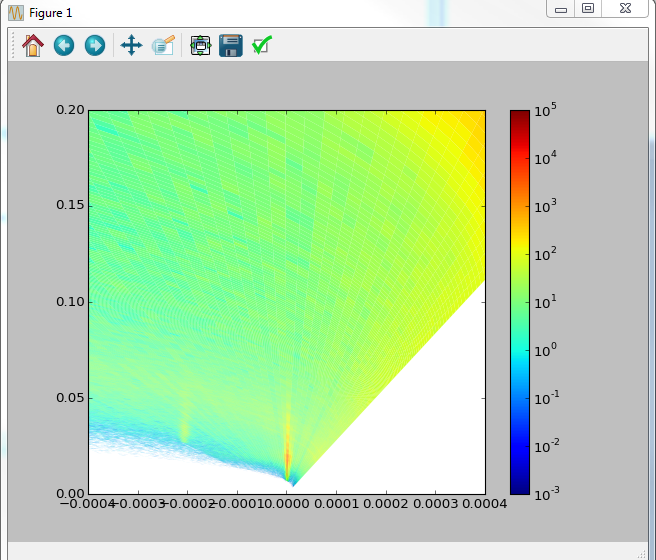
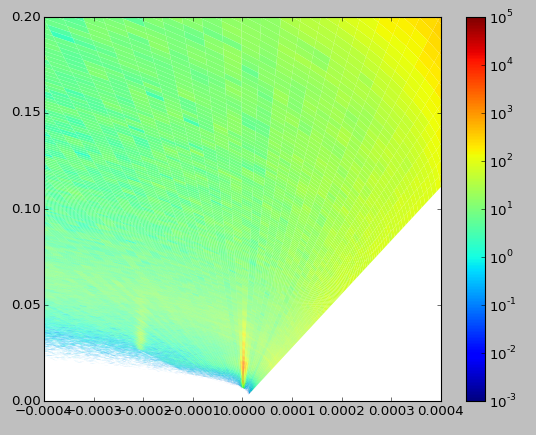
update to documentation and image
Refs #13410

diff --git a/Code/Mantid/docs/source/algorithms/ConvertToReflectometryQ-v1.rst b/Code/Mantid/docs/source/algorithms/ConvertToReflectometryQ-v1.rst
@@ -23,6 +23,17 @@ workspace does not contain this value, or if you wish to override this
 value you can do so by providing your own *IncidentTheta* property and
 enabling *OverrideIncidentTheta*.
 
+The algorithm also has the option to create a table of 'DumpVertexes' that resemble
+the transformation before NormalisedPolygon has been used to rebin.
+The table of DumpedVertexes will have uniform bin widths. whereas the table created after
+rebinning with NormalisedPolygon may contain non-uniform bin widths; resulting a Ragged workspace.
+
+To create this table there are certain properties that must be present in the algorithm:
+
+- The transform method must be NormalisedPolygon
+- The option to Output as MD workspace must not be selected
+- The option to DumpVertexes must be selected
+
 Transformations
 ###############
 
@@ -121,6 +132,58 @@ Output:
     Qx Qz
     Ki Kf
     Pz_i + Pz_f Pz_i - Pz_f
+    
+Patch Plot with Dumped Vertexes
+###############################
+
+ConvertToReflectometryQ has the functionality to produce a table of vertexes before they are
+fitted to a normalised polygon. The plotting of these vertexes results in a patch plot that can be
+achieved by running the algorithm below.
+
+Usage
+-----
+**Example - Patch Plot using the Dumped vertexes from ConvertToReflectometryQ**
+
+.. code-block:: python
+
+    import numpy as np
+    import matplotlib
+    from matplotlib.patches import Polygon
+    from matplotlib.collections import PatchCollection
+    import matplotlib.pyplot as plt
+    from matplotlib.colors import LogNorm
+
+    def patch_plot(vertex_table):
+        fig, ax = plt.subplots()
+
+        patches = list()
+        colors = list()
+        polygon_vertexes = list()   
+
+        for vertex in vertex_table:
+            polygon_vertexes.append((vertex['Qx'], vertex['Qy'] ))
+            if len(polygon_vertexes) == 4:
+                poly = Polygon(polygon_vertexes, True,edgecolor='none',linewidth=0)
+                patches.append(poly)
+                colors.append(vertex['CellSignal'])
+                polygon_vertexes = list()
+         
+        p = PatchCollection(patches, cmap=matplotlib.cm.jet,norm=LogNorm(vmin=1e-3, vmax=1e5),linewidths=(0,))
+        p.set_array(np.array(colors))
+        ax.add_collection(p)
+        plt.colorbar(p)
+        axes = plt.gca()
+        axes.set_xlim([-0.0004,0.0004])
+        axes.set_ylim([0,0.2])
+
+        plt.show()
+    
+    threadsafe_call(patch_plot, mtd['vertex_dump'])
+
+Output:
+
+.. figure:: /images/ConvertToReflectometryQ_PatchPlot.png
+   :alt: patch plot of dumped vertexes
 
 .. categories::
 
